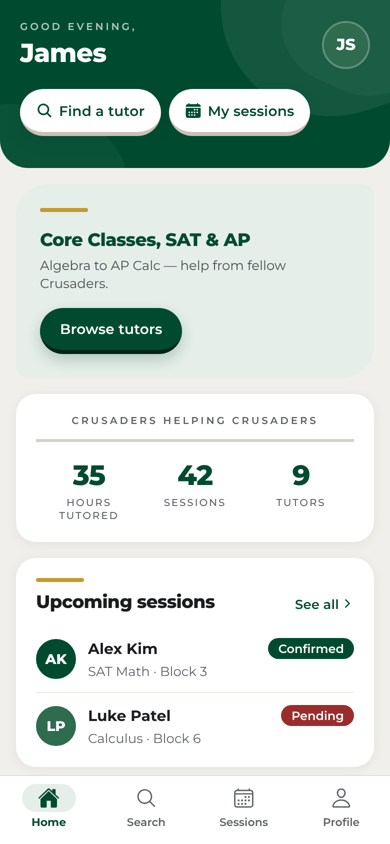
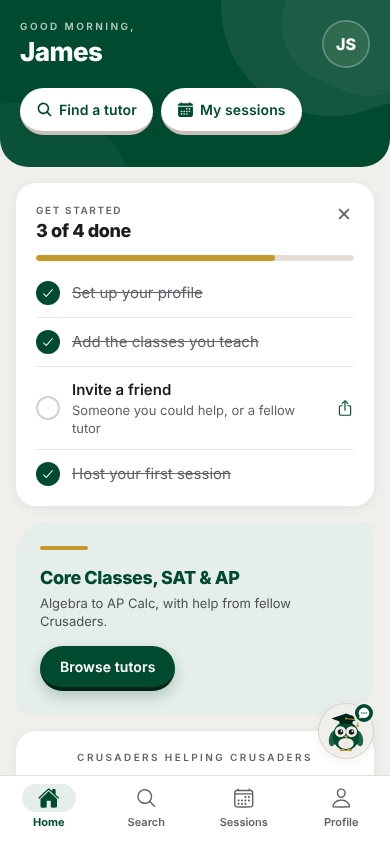
Security: tutor search signed-in only; security headers; submission kit refresh (#13)
* Security: tutor search signed-in only; add browser security headers

Functions are executable by PUBLIC unless revoked, so a signed-out visitor
with the public key could call search_tutors and list every tutor's name,
school email and bio (and first_name / tutor_booked_slots by id). 010
makes them signed-in only. vercel.json now sends HSTS, nosniff,
frame-ancestors 'none' / X-Frame-Options, a Referrer-Policy and a
Permissions-Policy.

Claude-Session: https://claude.ai/code/session_018qTgza96PMfEWmJfVqPcx2

* Get the submission kit ready: description, checklist, screenshots

The challenge doc's description and checklist predated check-in,
Insights, Ask Ollie and the security fixes, and told you to record with
demo accounts the testing guide says to delete. It now has an up-to-date
description, a video line for real test numbers, and one checklist
(migrations 001-010, OpenAI key, judge account, deleting demo accounts
after recording, 2FA, privacy policy). README screenshots now show Ask
Ollie and the check-in code.

Claude-Session: https://claude.ai/code/session_018qTgza96PMfEWmJfVqPcx2

---------

diff --git a/docs/CONGRESSIONAL_APP_CHALLENGE.md b/docs/CONGRESSIONAL_APP_CHALLENGE.md
@@ -19,13 +19,15 @@ Each part of the kit below is aimed at one of these three.
 ## 2. Short description (for the form)
 
 > Strake Jesuit Tutors connects students who need help with classmates who have
-> already mastered the class. Students search by subject (core classes, SAT and
-> AP) or tap "Match my schedule" to find tutors who share a free block. They
-> book in one tap, get a reminder before the session, and leave a review
-> afterwards. Tutors confirm requests, mark sessions done, and download a
-> service-hours log their moderator can sign. Sign-up is limited to school
-> email addresses, and every profile can be reported or blocked. One React
-> Native codebase runs on iPhone, Android and the web.
+> already mastered the class, during the free blocks they share. Students
+> search by class or tap "Match my schedule", or just tell Ollie, our AI owl,
+> what they need ("chem during B3"). They book a real school day on Strake's
+> 8-day rotation, plan in a built-in chat, and check in with a code from the
+> tutor, so service hours are confirmed by both students before a teacher
+> verifies them. Moderators see which classes students search for but can't
+> find a tutor in. Built for minors: school-email sign-up only, private phone
+> numbers, opt-in emails and AI, and security rules enforced in the database.
+> One React Native codebase runs on iPhone, Android and the web.
 
 ## 3. Target audience
 
@@ -55,9 +57,9 @@ phone-sized browser window. Speak over it. Use **clear placeholder names**
 | 0:50–1:20 | Search: type a subject, tap **Match my schedule**; then tap the owl, type "chem during B3", open a tutor | "Search by class, from Algebra to AP Calc, or tap *Match my schedule*. Our search ranks tutors by rating and experience, and boosts anyone who shares your free blocks. Or just ask Ollie: AI turns your words into a search, but the matching happens in our own database, so no student's data goes to the AI." |
 | 1:20–1:40 | Tutor profile: pick a free block, then **Book session** and a day | "Their profile shows ratings, subjects and only the blocks they're free. Pick a block and a day, and send the request. Nobody can be double-booked." |
 | 1:40–2:00 | Switch to the tutor account: the push notification, **Confirm**, then **Message** | "The tutor gets a notification, confirms, and they plan the session in the built-in chat, so no one shares a phone number." |
-| 2:00–2:15 | **Mark as done**, Profile **Service hours**, then the moderator account verifying | "Every session counts toward service hours. A teacher moderator verifies them in the app, and tutors download an official log." |
-| 2:15–2:35 | Quick shots: the code, the tests passing, the accessibility scan | "We built it in React Native with Expo, so it runs on iPhone, Android and the web, with a Supabase backend. Security rules keep each student's sessions private. It has 44 unit tests, 149 automated screen checks, 109 database security tests, dark mode, and an accessibility scan with zero issues." |
-| 2:35–2:45 | Home screen | "Strake Jesuit Tutors: Crusaders helping Crusaders. Thanks for watching!" |
+| 2:00–2:15 | Tutor taps **Check-in code**, student types it, then Profile **Service hours** and the moderator's **Insights** tab | "At the session, the student types the tutor's code, so the hours are confirmed by both. A teacher verifies them, and Insights shows which classes students need help in but can't find a tutor for." |
+| 2:15–2:35 | Quick shots: the code, the tests passing, the accessibility scan | "We built it in React Native with Expo, so it runs on iPhone, Android and the web, with a Supabase backend. Security rules keep each student's sessions private. It has 44 unit tests, 149 automated screen checks, 112 database security tests, dark mode, and an accessibility scan with zero issues." |
+| 2:35–2:45 | Home screen | "In our first week of testing, **[N] students** signed up and booked **[N] sessions**. Strake Jesuit Tutors: Crusaders helping Crusaders. Thanks for watching!" |
 
 Check before you upload:
 - [ ] Under 3 minutes.
@@ -74,7 +76,25 @@ Check before you upload:
 
 ## 7. Before you submit
 
-- [ ] In the Supabase SQL Editor, run the files in `supabase/migrations/` in order (001, 002, 003). Booking, free blocks, chat and phone privacy need them. On a project that already has the base schema, 001 is safe to run again.
-- [ ] Run `supabase/seed_demo.sql` so the app isn't empty, and record the video signed in as `james.smith.demo@mail.strakejesuit.org` (password `DemoTutor2026!`).
-- [ ] Run `npx eas init` so phones can register for push notifications, then test on a real iPhone: booking, chat, notifications, photo picker, calendar and reminders.
-- [ ] Confirm that every team member is registered for your district on the Congressional App Challenge site.
+**Database and accounts**
+- [ ] All migrations are run: paste `supabase/all_migrations.sql` (001–010) into the Supabase SQL Editor and run it. Safe to run again.
+- [ ] The OpenAI key is in the Vault (README → *Ask Ollie*). Test by tapping the owl and asking "chem during B3".
+- [ ] The judge account is set up (`docs/TESTING.md` → *Judge access*), and its password is written **only** in the submission form.
+- [ ] Record the video with the demo data (`supabase/seed_demo.sql`, password in the README). **Then delete the demo accounts before submitting**, because their password is public:
+      `delete from auth.users where email like '%.demo@mail.strakejesuit.org';`
+      The judge account keeps working without them.
+
+**Results from real students (the strongest part of the submission)**
+- [ ] Run the one-week test in `docs/TESTING.md`.
+- [ ] From Profile → Moderator tools → Insights, write down: sign-ups, sessions, hours, the share confirmed by both, and the top classes with no tutor.
+- [ ] Put the numbers in the last line of the video and in the written answers, with one or two quotes from testers.
+
+**Links and accounts**
+- [ ] The live site opens in a private window with no Vercel login.
+- [ ] The GitHub repo is public, with a one-line description and the live link at the top of its page.
+- [ ] Two-factor sign-in is on for GitHub, Supabase, Vercel and OpenAI, and OpenAI has a monthly spending limit.
+- [ ] The privacy policy (betterullc.com/privacy) names OpenAI and Resend.
+
+**Video and form**
+- [ ] The video is under 3 minutes, every team member is named, and it's uploaded to YouTube or Vimeo as **Unlisted**.
+- [ ] Every team member is registered for your district on the Congressional App Challenge site, before the deadline.

diff --git a/README.md b/README.md
@@ -11,9 +11,13 @@ app** and as a **website**.
 [docs/TESTING.md](docs/TESTING.md) (invite message, 5-minute test, feedback
 questions, judge account)
 
-| Home | Find a tutor | Tutor profile | Sessions | Profile & hours |
-|---|---|---|---|---|
-| ![Home](docs/screenshots/mobile-home.png) | ![Search](docs/screenshots/mobile-search.png) | ![Tutor profile](docs/screenshots/mobile-tutorprofile.png) | ![Sessions](docs/screenshots/mobile-sessions.png) | ![Profile](docs/screenshots/mobile-profile.png) |
+| Home | Ask Ollie | Find a tutor | Tutor profile |
+|---|---|---|---|
+| ![Home](docs/screenshots/mobile-home.png) | ![Ask Ollie](docs/screenshots/mobile-ollie.png) | ![Search](docs/screenshots/mobile-search.png) | ![Tutor profile](docs/screenshots/mobile-tutorprofile.png) |
+
+| Sessions | Check-in code | Profile & hours |
+|---|---|---|
+| ![Sessions](docs/screenshots/mobile-sessions.png) | ![Check-in code](docs/screenshots/mobile-checkin.png) | ![Profile](docs/screenshots/mobile-profile.png) |
 
 ## The problem
 
@@ -108,7 +112,7 @@ More detail: [ARCHITECTURE.md](ARCHITECTURE.md) · database:
   press every screen's buttons and check what the app sends
   (`npm run test:e2e`, in [e2e/](e2e/)).
 - **Database tests**: every migration is applied twice to a real Postgres,
-  the demo data is loaded twice, then 109 checks sign in as a tutor, a
+  the demo data is loaded twice, then 112 checks sign in as a tutor, a
   student, a moderator, an outsider and a visitor and try everything they
   should and shouldn't be able to do (`npm run test:db`, in
   [supabase/tests/](supabase/tests/)).
@@ -152,11 +156,12 @@ run them in order (each one is safe to run again):
 8. `008_ask_ollie.sql`: Ask Ollie (see *Ask Ollie* below)
 9. `009_profile_insert_guard.sql`: security fixes (nobody can sign up as a
    moderator or with a fake rating or email; new bookings start unconfirmed)
-10. `supabase/seed_demo.sql` *(optional)*: demo accounts, all with password
+10. `010_signed_in_only.sql`: tutor search only for signed-in students
+11. `supabase/seed_demo.sql` *(optional)*: demo accounts, all with password
    `DemoTutor2026!`. Sign in as `james.smith.demo@mail.strakejesuit.org`
    (student), `alex.kim.demo@…` (tutor) or `mr.thompson.demo@…` (moderator).
 
-Shortcut: `supabase/all_migrations.sql` has 001–009 in one file to paste and
+Shortcut: `supabase/all_migrations.sql` has 001–010 in one file to paste and
 run (rebuild it with `npm run db:bundle` after changing a migration).
 
 Or with the Supabase CLI: `npx supabase link --project-ref <your ref>`, then

diff --git a/docs/TESTING.md b/docs/TESTING.md
@@ -7,7 +7,7 @@ first week") are the strongest line in the Congressional App Challenge video.
 Live app: **https://tutor-delta-one.vercel.app**
 
 ## Before you send it
-- [ ] The latest migrations are run in Supabase (through `009_profile_insert_guard.sql`).
+- [ ] The latest migrations are run in Supabase (through `010_signed_in_only.sql`).
 - [ ] Optional: email updates switched on (Resend key and sender in the Vault,
       see *Email notifications* in the README). Send yourself a test booking
       with email updates ticked to check it arrives (and isn't in spam).
